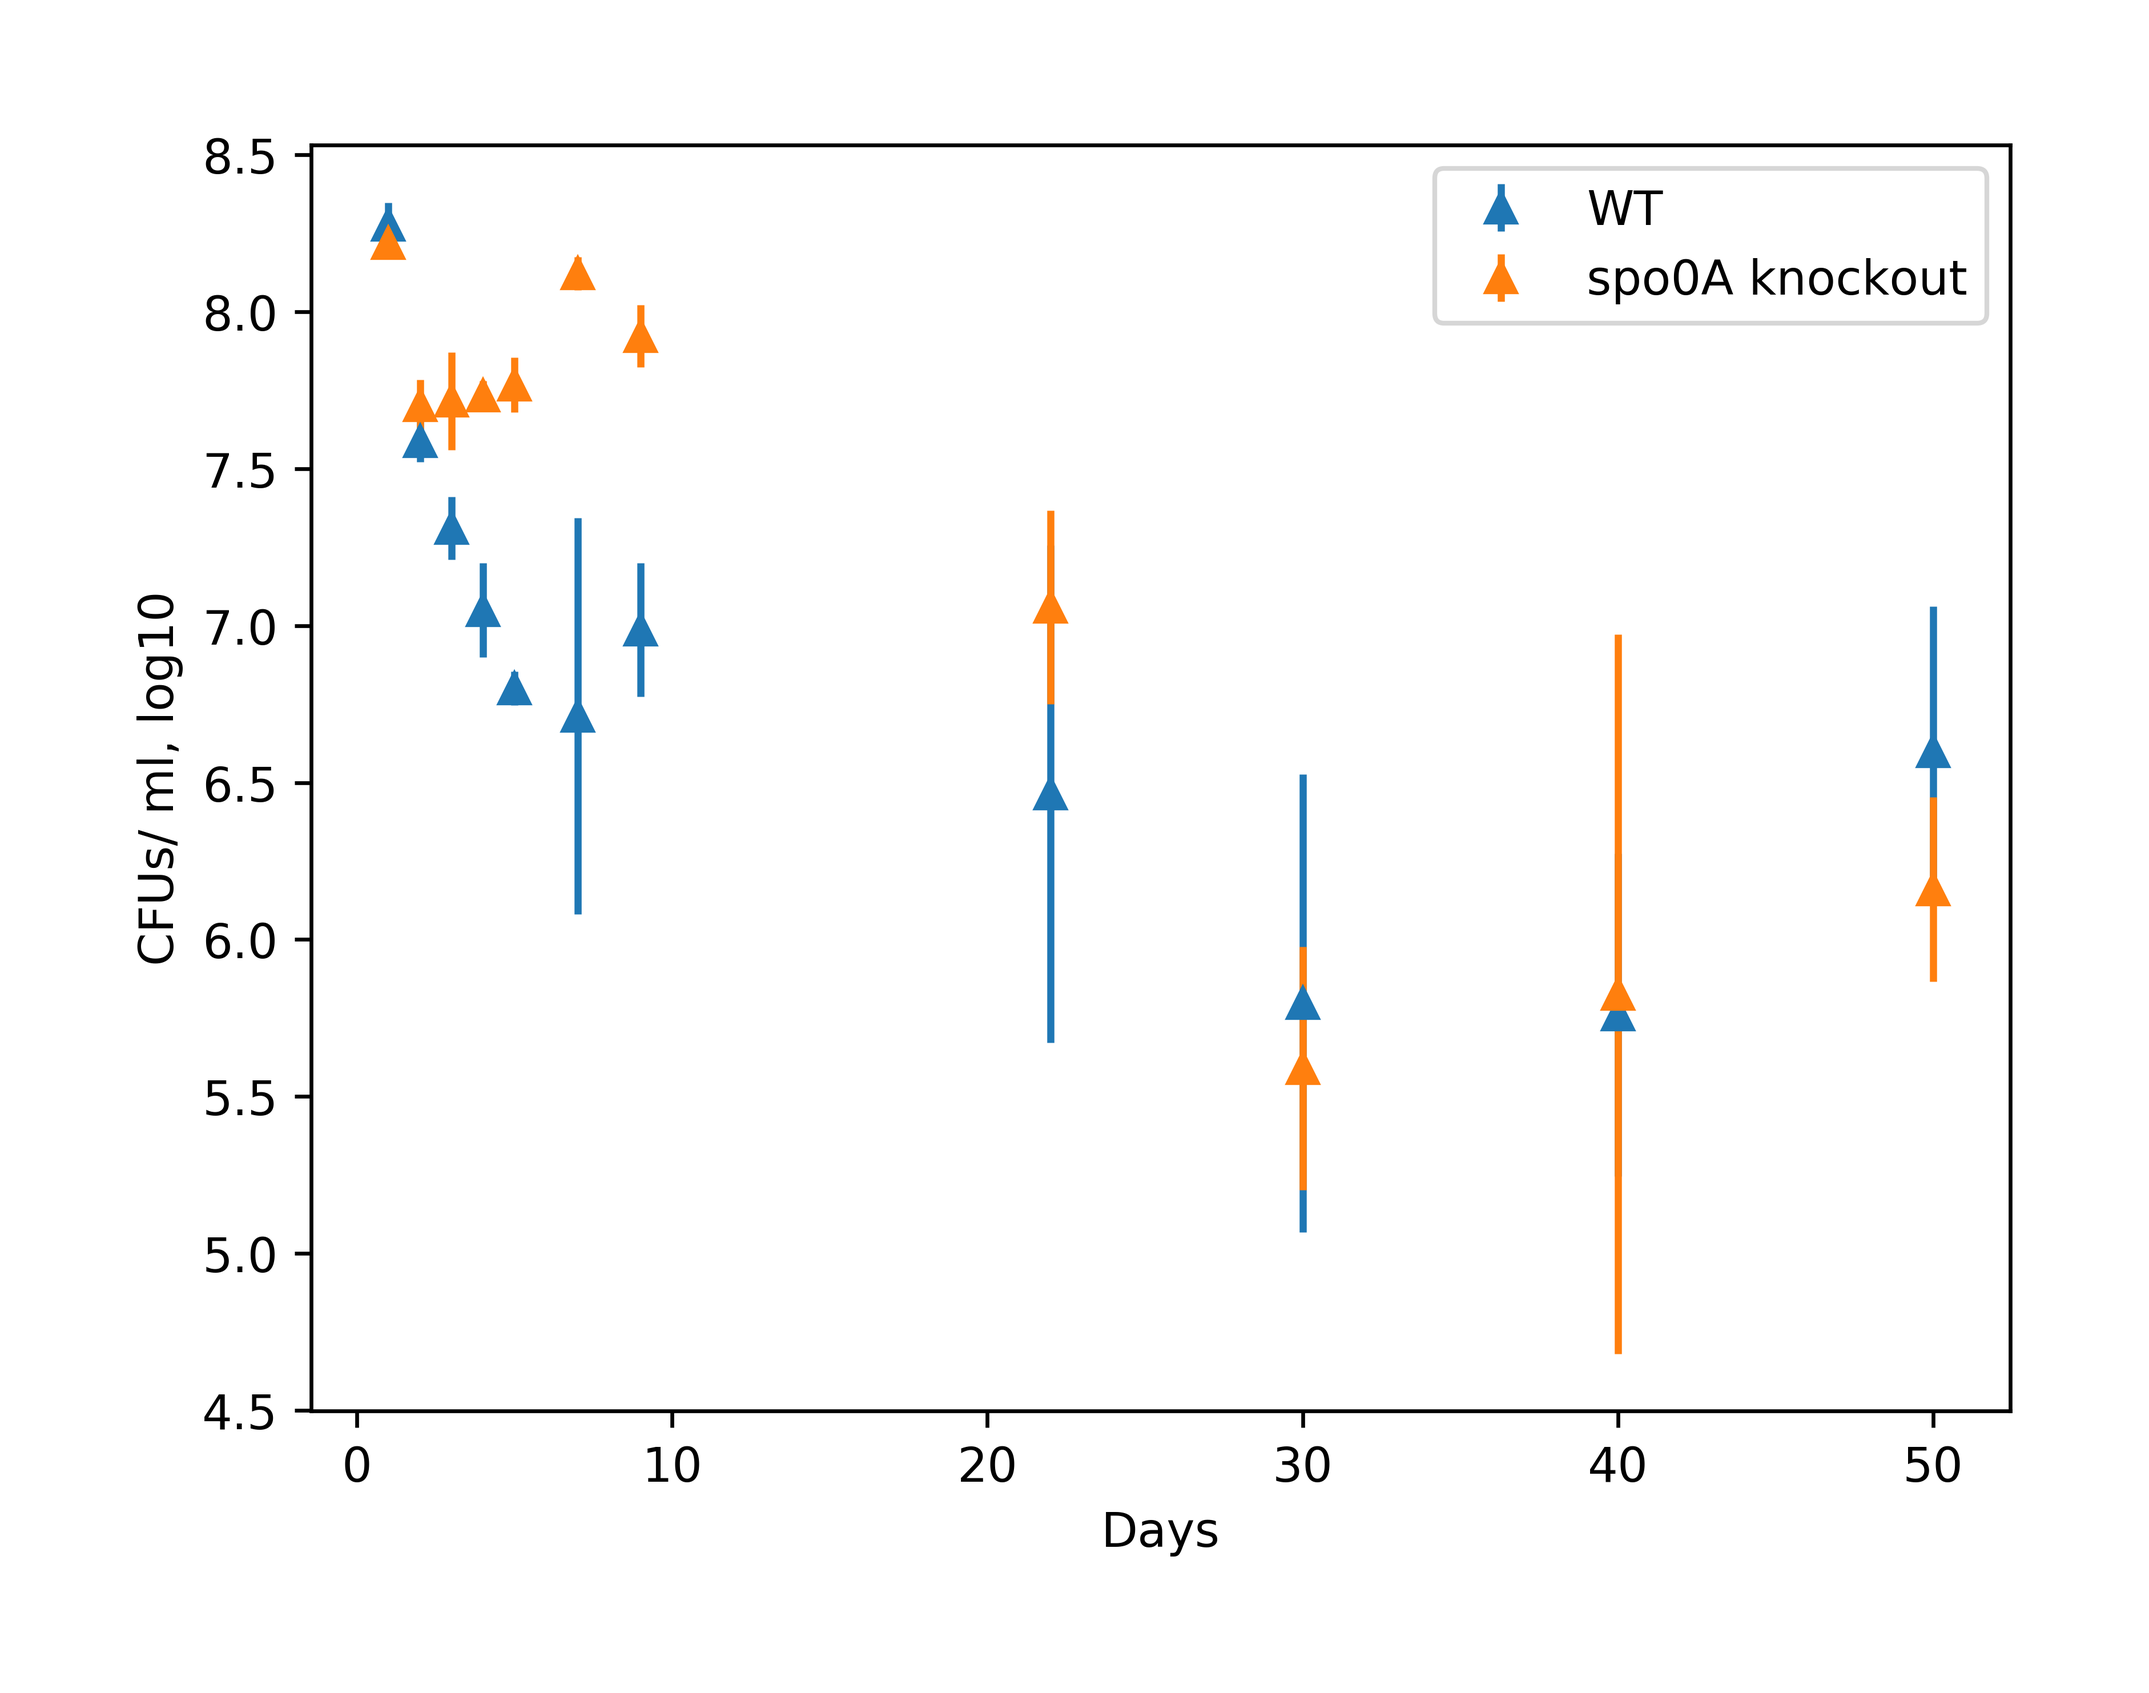
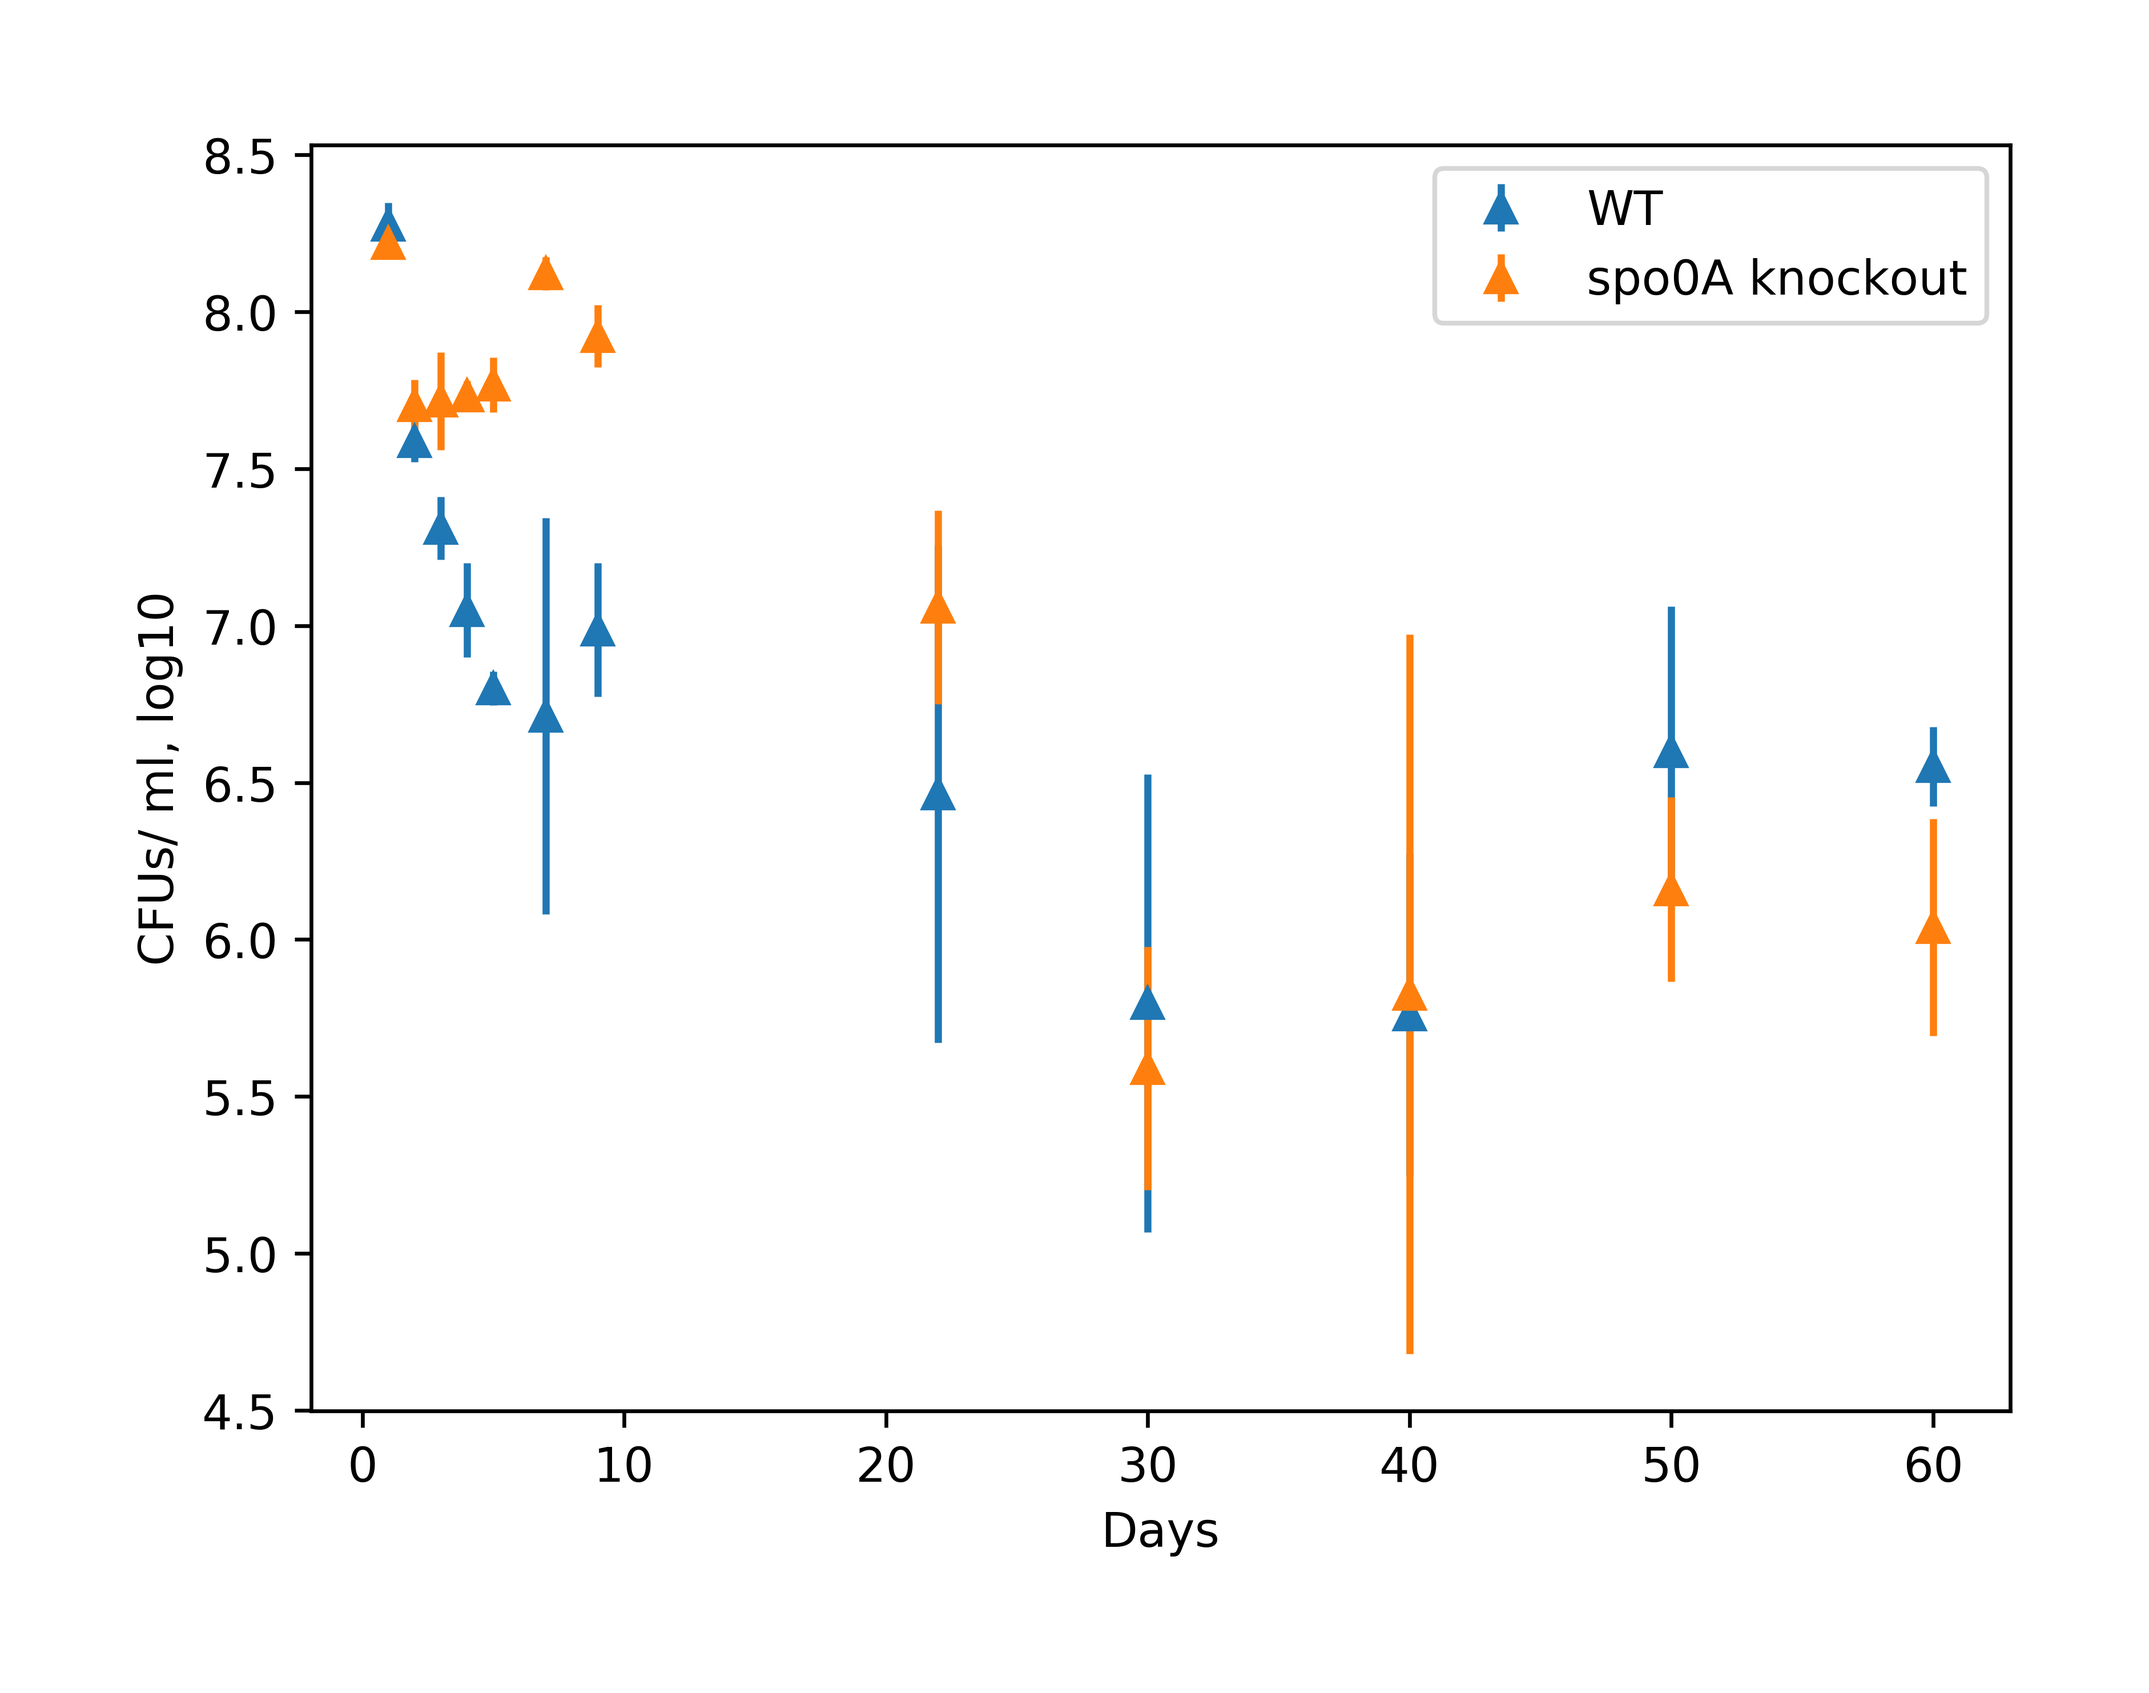
2017-11-29-count

diff --git a/Python/analyze_data.py b/Python/analyze_data.py
@@ -7,7 +7,7 @@ import matplotlib.pyplot as plt
 mydir = os.path.expanduser("~/GitHub/Task2_Competition/")
 
 def plot_data():
-    df = pd.read_csv(mydir + 'data/2017-11-14-count.txt', sep = '\t')
+    df = pd.read_csv(mydir + 'data/2017-11-29-count.txt', sep = '\t')
     rows_to_keep = []
     for index, row in df.iterrows():
         wt = row['WT']
